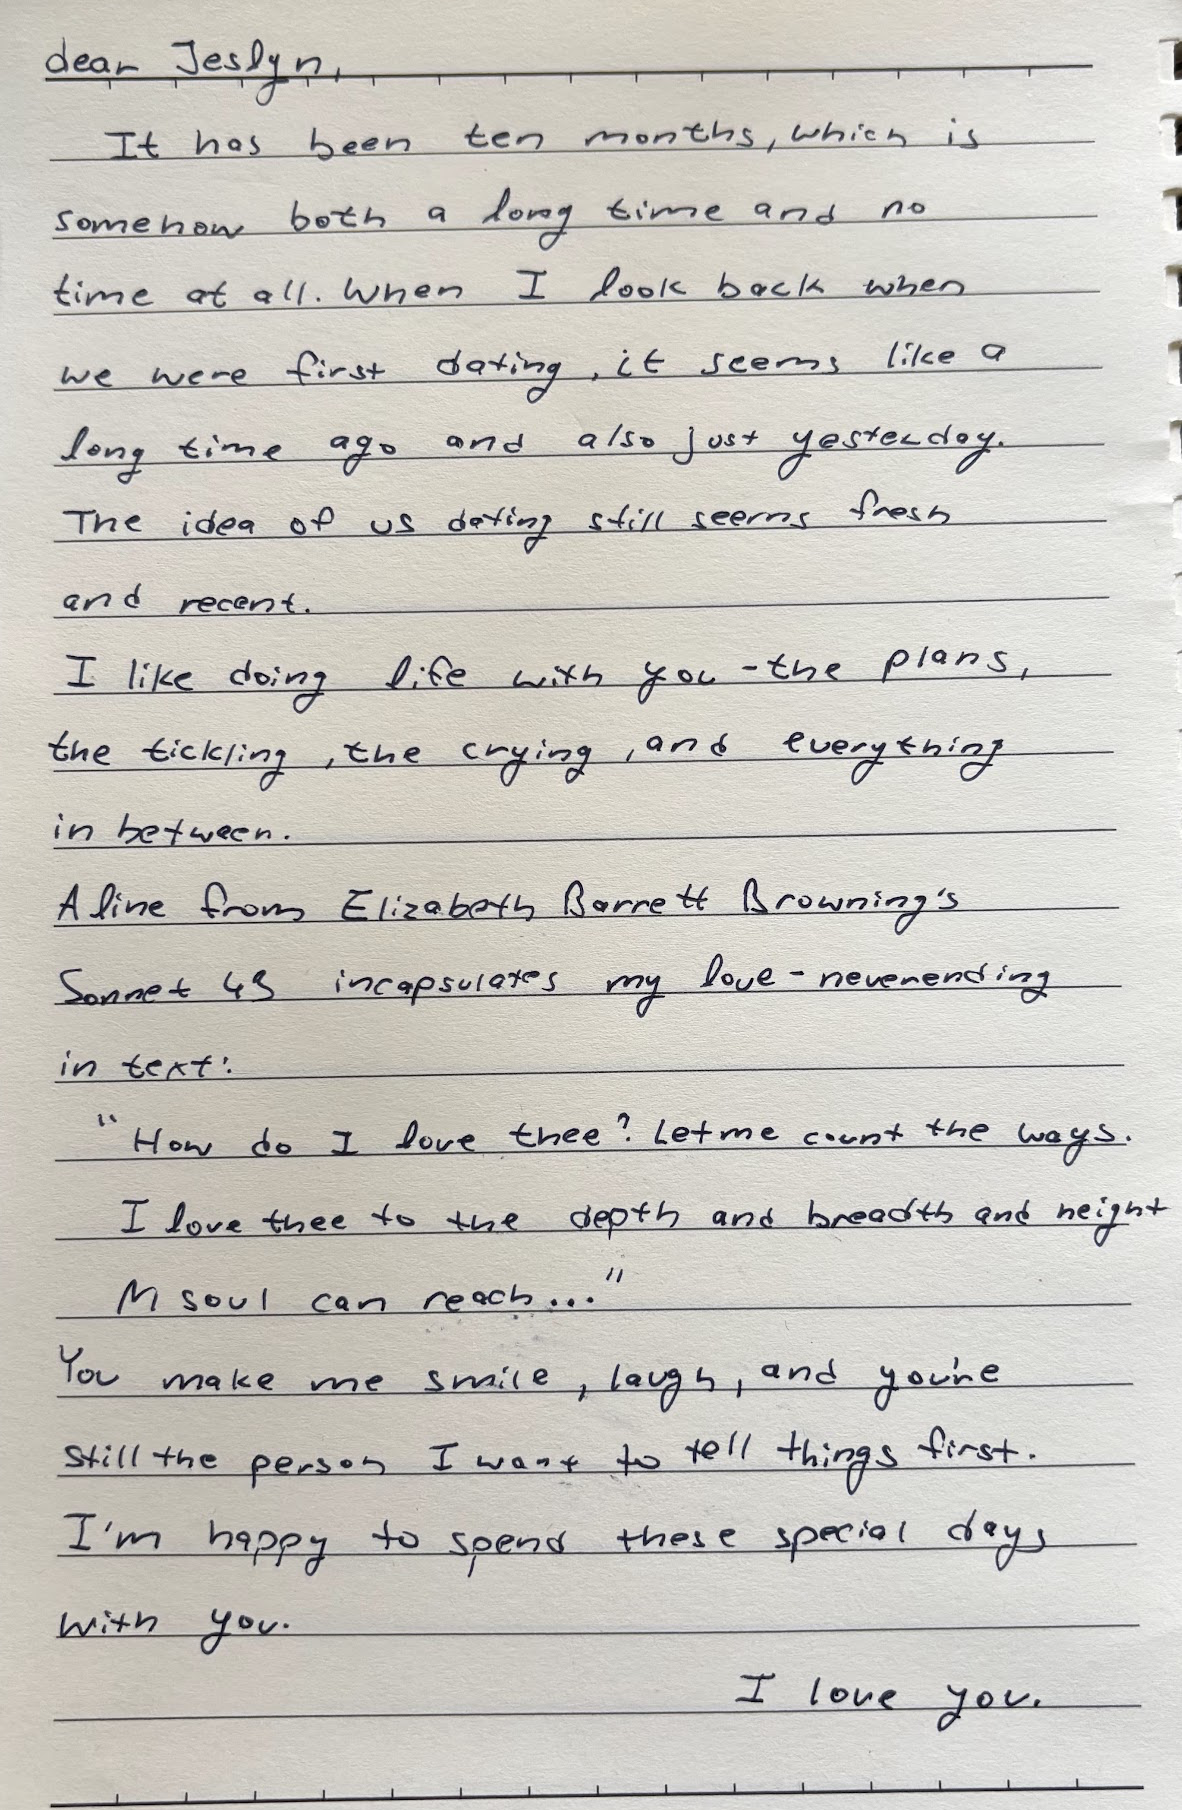
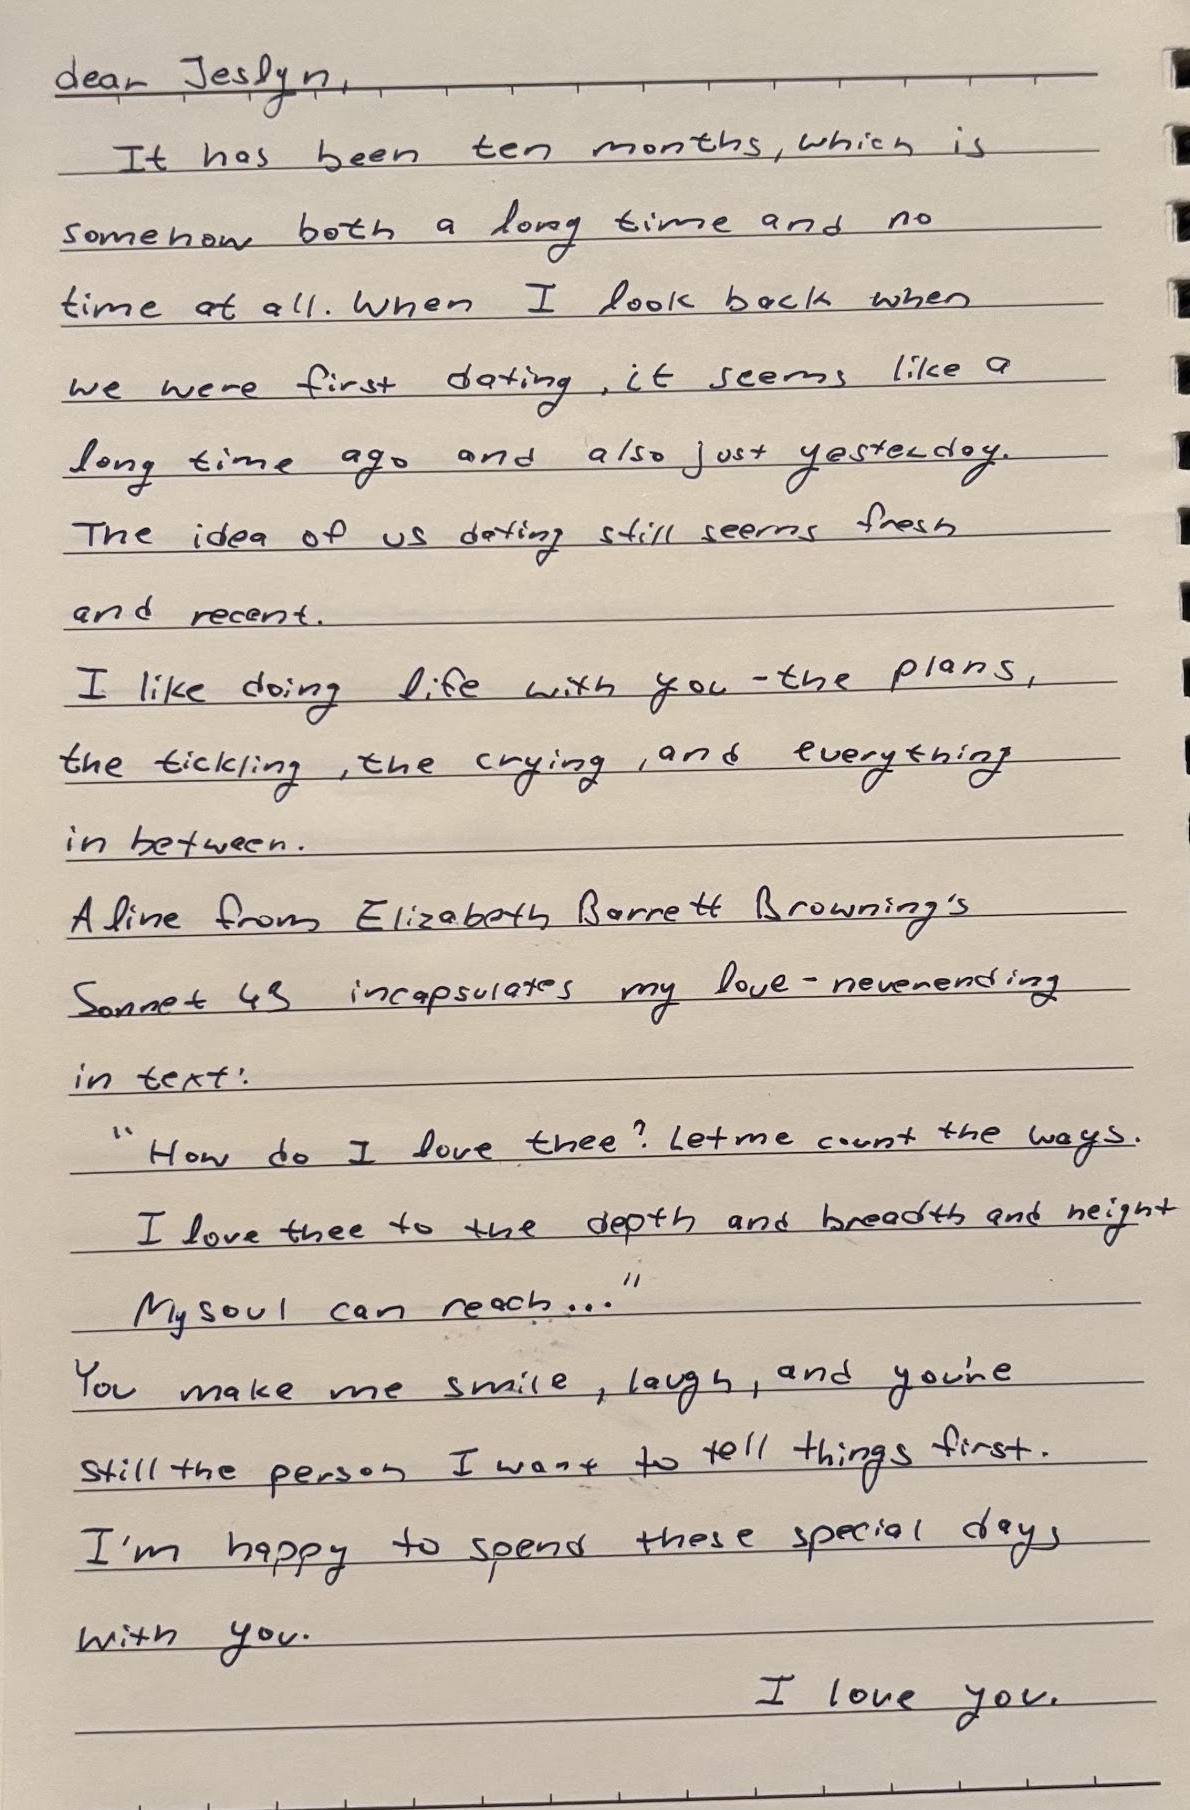
Update website

diff --git a/index.html b/index.html
@@ -33,7 +33,7 @@
     <main>
       <section class="home" id="home">
         <div class="home-copy">
-          <p class="little-label">welcome!</p>
+          <p class="little-label">dear jeslyn</p>
           <h1>Happy 10 months of <span>us!</span></h1>
           <p class="intro">
             This is my appreciation and love for you. A place for pictures,
@@ -42,8 +42,8 @@
         </div>
         <div class="fridge-note" aria-label="A handwritten note">
           <span class="note-tape"></span>
-          <p>ten months</p>
-          <strong>still love you<br />a lot :D</strong>
+          <p>ten months in...</p>
+          <strong>still like you.<br />a lot.</strong>
           <div class="note-doodles">🍅 &nbsp; 🌭 &nbsp; 🐒</div>
         </div>
       </section>
@@ -269,11 +269,13 @@
       <section class="birthday-section" id="birthday">
         <div class="birthday-note">
           <p class="little-label">also: your birthday is coming</p>
-          <h2>Happy birthday,<br /><span>HANster</span></h2>
+          <h2>Happy birthday,<br /><span>you weirdo.</span></h2>
           <p>
-             I hope this year has more tickle fights, little mac vs villager,
-            good eats, and lots of snuggles!
+            I hope this year has better hot dogs, excellent tomatoes, an
+            unreasonable number of monkey videos, and plenty of days where
+            nobody needs anything from you.
           </p>
+          <p>I’m very glad you were born. That worked out well for me.</p>
           <button class="wish-button" type="button">make a wish ✦</button>
         </div>
         <div class="birthday-cake" aria-hidden="true">
